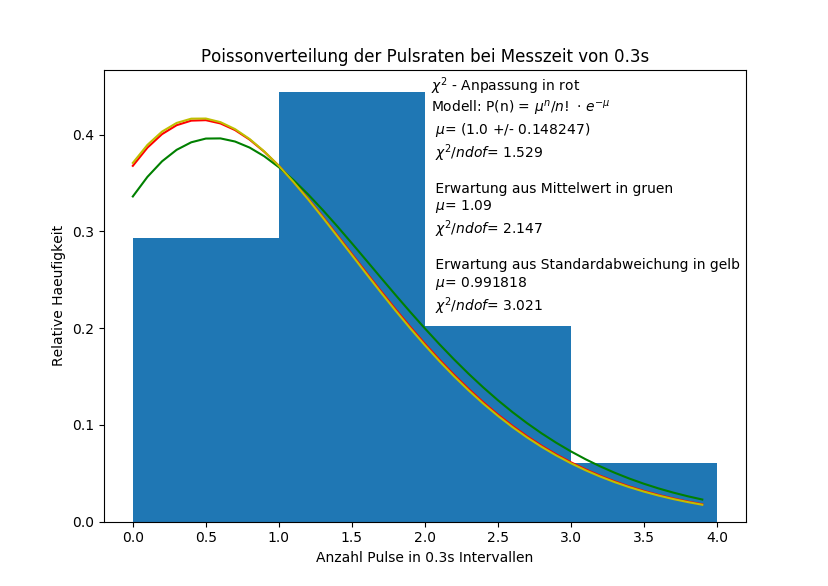
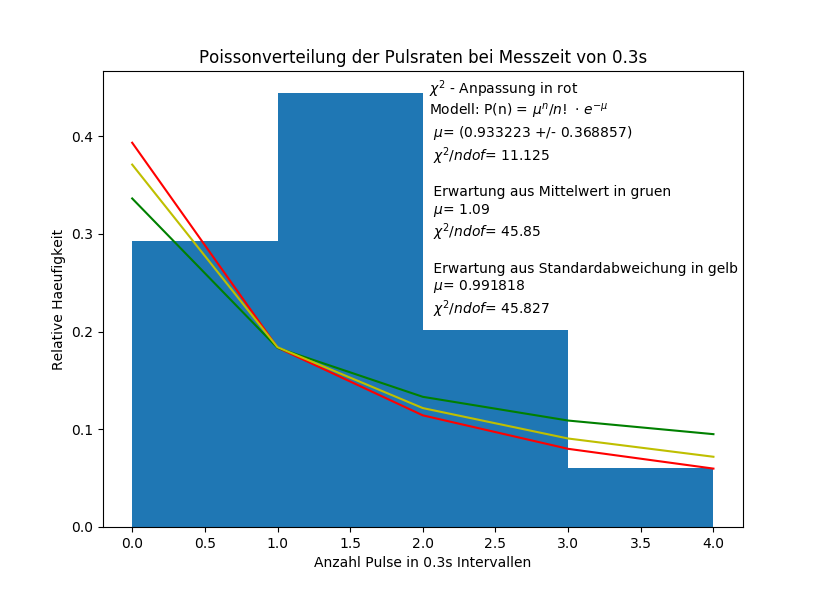
Revert "Merge branch 'master' of https://github.com/maoam13/Fortgeschrittenenpraktikum"
This reverts commit 60c9df4720af319464fc6b452ee72f1a187ae068, reversing
changes made to 0d344926598f402077a13985175f1eb76e704d50.

diff --git a/T07/Protokoll/Gasdetektoren.tex b/T07/Protokoll/Gasdetektoren.tex
@@ -89,11 +89,11 @@ P(\Delta t) = A \cdot e^{- A \Delta t}
 \hline 
 Art & Poisson Parameter & $\chi ^2$ /ndof & P($\chi ^2$) \\ 
 \hline 
-Mittelwertbestimmung & 1,0900 & 2.147 & 15\% \\ 
+Mittelwertbestimmung & 1,0900 & 45,850 & 0\% \\ 
 \hline 
-Bestimmung der Standardabweichung & 0,9918 & 3,021 & 7\% \\ 
+Bestimmung der Standardabweichung & 0,9918 & 45,827 & 0\% \\ 
 \hline 
-$\chi ^2$ Anpassung & 1,000 $\pm$ 0,1482 & 1,529 & 28\% \\ 
+$\chi ^2$ Anpassung & 0,9332 $\pm$ 0,3689 & 11,125 & 0\% \\ 
 \hline 
 \end{tabular} 
 \caption{Poisson Parameter und $\chi ^2$ aus den verschiedenen Bestimmungsmethoden der Poissonverteilung. In der letzten Spalte ist eine geschätzte Wahrscheinlichkeit für den Wert des $\chi ^2$ angegeben.}
@@ -105,15 +105,15 @@ Für die Anpassung wurde auf jeden Wert ein Fehler gemäß der Poissonverteilung
 \begin{equation*}
 \sigma _{n} = \sqrt{n}
 \end{equation*}
-Für die Anpassung einer Poissonverteilung wurden die Werte normiert, daher pflanzt sich der Fehler fort zu:
+Für die Anpassung einer Gaußverteilung wurden die Werte normiert, daher pflanzt sich der Fehler fort zu:
 \begin{equation*}
 n_{i, norm} = \dfrac{n_i}{\sum _j n_j} =: \dfrac{n_i}{N}
 \end{equation*}
 \begin{equation*}
 \sigma _{i, norm} = \sqrt{ \sum _j \left( \sigma_j \cdot \left( \delta_{ij} \cdot \left( \frac{1}{N} - \frac{n_i}{N} \right) + (1 - \delta_{ij}) \cdot \frac{n_i}{N^2} \right) \right)^2 }
 \end{equation*}
-Tabelle \ref{tab:Poisson} zeigt die Ergebnisse aus den verschiedenen Methoden zur Bestimmung des Poisson Parameters und des $\chi ^2$. Leicht lässt sich ersehen, dass die Werte für den Poisson Parameter nah beieinander liegen, insbesondere liegen die Werte aus Bestimmung von Mittelwert und Standardabweichung innerhalb des Fehlers auf den Wert aus der $\chi ^2$ Anpassung.\\
-Die $\chi ^2$ pro Freiheitsgrad bei Bestimmung von Mittelwert und Standardabweichung liegen erwartungsgemäß etwas höher als das aus der Anpassung und dennoch beide noch in einem Bereich mit nicht vernachlässigbarer Wahrscheinlichkeit.
+AB HIER POISSON ÜBERARBEITEN!! \\
+Tabelle \ref{tab:Poisson} zeigt die Ergebnisse aus den verschiedenen Methoden zur Bestimmung des Poisson Parameters und des $\chi ^2$. Leicht lässt sich ersehen, dass die Werte für den Poisson Parameter nah beieinander liegen, das $\chi ^2$ aus der Anpassung jedoch deutlich kleiner ist als die aus der Berechnung nach Bestimmung des Parameters. Insgesamt ist das $\chi ^2$ jedoch deutlich zu groß. 
 
 
 \subsubsection{Gaußverteilung}

diff --git a/T07/Auswertung/Statistik/Poisson.py b/T07/Auswertung/Statistik/Poisson.py
@@ -6,7 +6,6 @@ Created on Tue Feb 27 17:28:13 2018
 """
 
 import Praktikum as p
-import scipy.special as spez
 import Peakabstaende_Funktionen as func
 import auswertung_nur_Methoden as AM
 import numpy as np
@@ -36,7 +35,7 @@ def fakultaet(n):
     return ret
 
 def poisson(A, x):
-    return A[0]**x * np.exp(-A[0]) / spez.factorial(x)
+    return A[0]**x * np.exp(-A[0]) / (x+1)
 
 #Berechne Fehler auf y
 ey = []
@@ -55,32 +54,24 @@ print sol
 
 #mittelwert und std ausrechnen und aus erwartung dann chi^2 ausrechnen
 mu = np.mean(data)
-sig = np.std(data, ddof = 1)
-chi_mu = AM.chiq_y(x[0:3], y[0:3]/sum(y), ey[0:3], poisson, [mu])
-chi_sig = AM.chiq_y(x[0:3], y[0:3]/sum(y), ey[0:3], poisson, [sig**2])
-
-#x-array für plotten von fits
-x_fit = np.arange(0, 4, 0.1)
+#sig = np.std(data, ddof = 1)
+chi = AM.chiq_y(x[0:3], y[0:3], np.sqrt(y[0:3]), poisson, [mu])
 
 #Plot
 plt.figure(1)
 plt.hist(data, bins = x, normed = True)
-plt.figtext(0.52,0.47,
+plt.figtext(0.7,0.6,
             '$\chi ^2$ - Anpassung in rot \n'
             +'Modell: P(n) = $\mu ^n / n!$ $\cdot$ $e^{-\mu}$'
             +'\n $\mu$= ('+str(np.round(sol[0][0],6))+' +/- '+str(np.round(sol[1][0],6))+') '
             +'\n $\chi ^2 / ndof$= ' + str(np.round(sol[2], 3))+' \n'
-            +'\n Erwartung aus Mittelwert in gruen'
+            +'\n Erwartung aus Mittelwert und Fehler in gruen'
             +'\n $\mu$= '+str(np.round(mu,6))
-            +'\n $\chi ^2 / ndof$= ' + str(np.round(chi_mu, 3)) + '\n'
-            +'\n Erwartung aus Standardabweichung in gelb'
-            +'\n $\mu$= '+str(np.round(sig**2,6))
-            +'\n $\chi ^2 / ndof$= ' + str(np.round(chi_sig, 3)))
+            +'\n $\chi ^2 / ndof$= ' + str(np.round(chi, 3)))
 plt.xlabel('Anzahl Pulse in 0.3s Intervallen')
 plt.ylabel('Relative Haeufigkeit')
 plt.title('Poissonverteilung der Pulsraten bei Messzeit von 0.3s')
-plt.plot(x_fit, poisson([sol[0][0]], x_fit), color = 'r')
-plt.plot(x_fit, poisson([mu], x_fit), color = 'g')
-plt.plot(x_fit, poisson([sig**2], x_fit), color = 'y')
+plt.plot(x, poisson([sol[0][0]], x), color = 'r')
+plt.plot(x, poisson([mu], x), color = 'g')
 
 print("Laufzeit: {0:9.2f} Sekunden".format(timeit.default_timer()-start_time))

diff --git a/T07/Auswertung/Peakabstände/Peakabstände_01.py b/T07/Auswertung/Peakabstände/Peakabstände_01.py
@@ -52,30 +52,23 @@ print sol
 
 #mittelwert (und std) ausrechnen und aus erwartung dann chi^2 ausrechnen
 mu = np.mean(y_kom)
-std = np.std(y_kom, ddof = 1)
-chi_mu = AM.chiq_y(x[0:7], y_kom[0:7], np.sqrt(y_kom[0:7]), func, [1./mu])
-chi_std = AM.chiq_y(x[0:7], y_kom[0:7], np.sqrt(y_kom[0:7]), func, [1./std])
+chi = AM.chiq_y(x[0:7], y_kom[0:7], np.sqrt(y_kom[0:7]), func, [1./mu])
+
+#plotte Fit in histogramm
+x_fit = x
+y_fit = func([sol[0][0]],x_fit)
 
 #Plot
 plt.figure(1)
 plt.hist(y, bins = x, normed = True)
-plt.figtext(0.4,0.42,
-            '$\chi ^2$ Anpassung in rot: \n'
-            +'Modell: rho ($\Delta$t) = A $\cdot$ $e^{- A \cdot \Delta t}$'
+plt.figtext(0.5,0.7,
+            'Modell: rho ($\Delta$t) = A $\cdot$ $e^{- A \cdot \Delta t}$'
             +'\n A= ('+str(np.round(sol[0][0],6))+' +/- '+str(np.round(sol[1][0],6))+') $1/s$ \n'
-            +'$\chi ^2 / ndof$= ' + str(np.round(sol[2], 3)) + '\n'
-            +'\n Erwartung aus Mittelwert in gruen'
-            +'\n A= '+str(np.round(1./mu,6))+'\n'
-            +'$\chi ^2 / ndof$= ' + str(np.round(chi_mu, 3)) + '\n'
-            +'\n Erwartung aus Standardabweichung in gelb'
-            +'\n A= '+str(np.round(1./std,6))+'\n'
-            +'$\chi ^2 / ndof$= ' + str(np.round(chi_std, 3)) + '\n')
+            +'$\chi ^2 / ndof$= ' + str(np.round(sol[2], 3)))
 plt.xlabel('Anzahl der gemessenen $\Delta$ t in einem Intervall')
 plt.ylabel('relative Haeufigkeit der Anzahlen')
 plt.title('Zeitabstaende zwischen Peaks bei Intervallbreite ' + str(bin_breite * 1000) + ' ms.')
-plt.plot(x, func([sol[0][0]],x), color = 'r')
-plt.plot(x, func([1./mu],x), color = 'g')
-plt.plot(x, func([1./std],x), color = 'y')
+plt.plot(x_fit, y_fit, color = 'r')
 
 
 print("Laufzeit: {0:9.2f} Sekunden".format(timeit.default_timer()-start_time))

diff --git a/T07/Auswertung/Statistik/Gauss.py b/T07/Auswertung/Statistik/Gauss.py
@@ -39,18 +39,18 @@ for i in range(len(y)):
     ey.append(np.sqrt(y_fehler))
 
 startwerte = [27, 4]
-sol = AM.fitte_bel_function(x, y/sum(y), np.full(len(x), 0.00001), ey, gauss, startwerte)
+sol = AM.fitte_bel_function(x, y/sum(y), np.full(len(x), 0.1), ey, gauss, startwerte)
 print sol
 
 #mittelwert und std ausrechnen und aus erwartung dann chi^2 ausrechnen
 mu = np.mean(data)
 sig = np.std(data, ddof = 1)
-chi = AM.chiq_y(x[4:19], y[4:19]/sum(y), ey[4:19], gauss, [mu, sig])
+chi = AM.chiq_y(x[4:19], y[4:19], np.sqrt(y[4:19]), gauss, [mu, sig])
 
 #Plot
 plt.figure(1)
 plt.hist(data, bins = x, normed = True)
-plt.figtext(0.15,0.55,
+plt.figtext(0.7,0.6,
             '$\chi ^2$ - Anpassung in rot \n'
             +'Modell: P(x) = $1/sqrt(2 \cdot \pi \cdot \sigma ^2)$ $\cdot$ $e^{(x - \mu)^2/(2 \cdot \sigma ^2)}$'
             +'\n $\mu$= ('+str(np.round(sol[0][0],6))+' +/- '+str(np.round(sol[1][0],6))+') '
